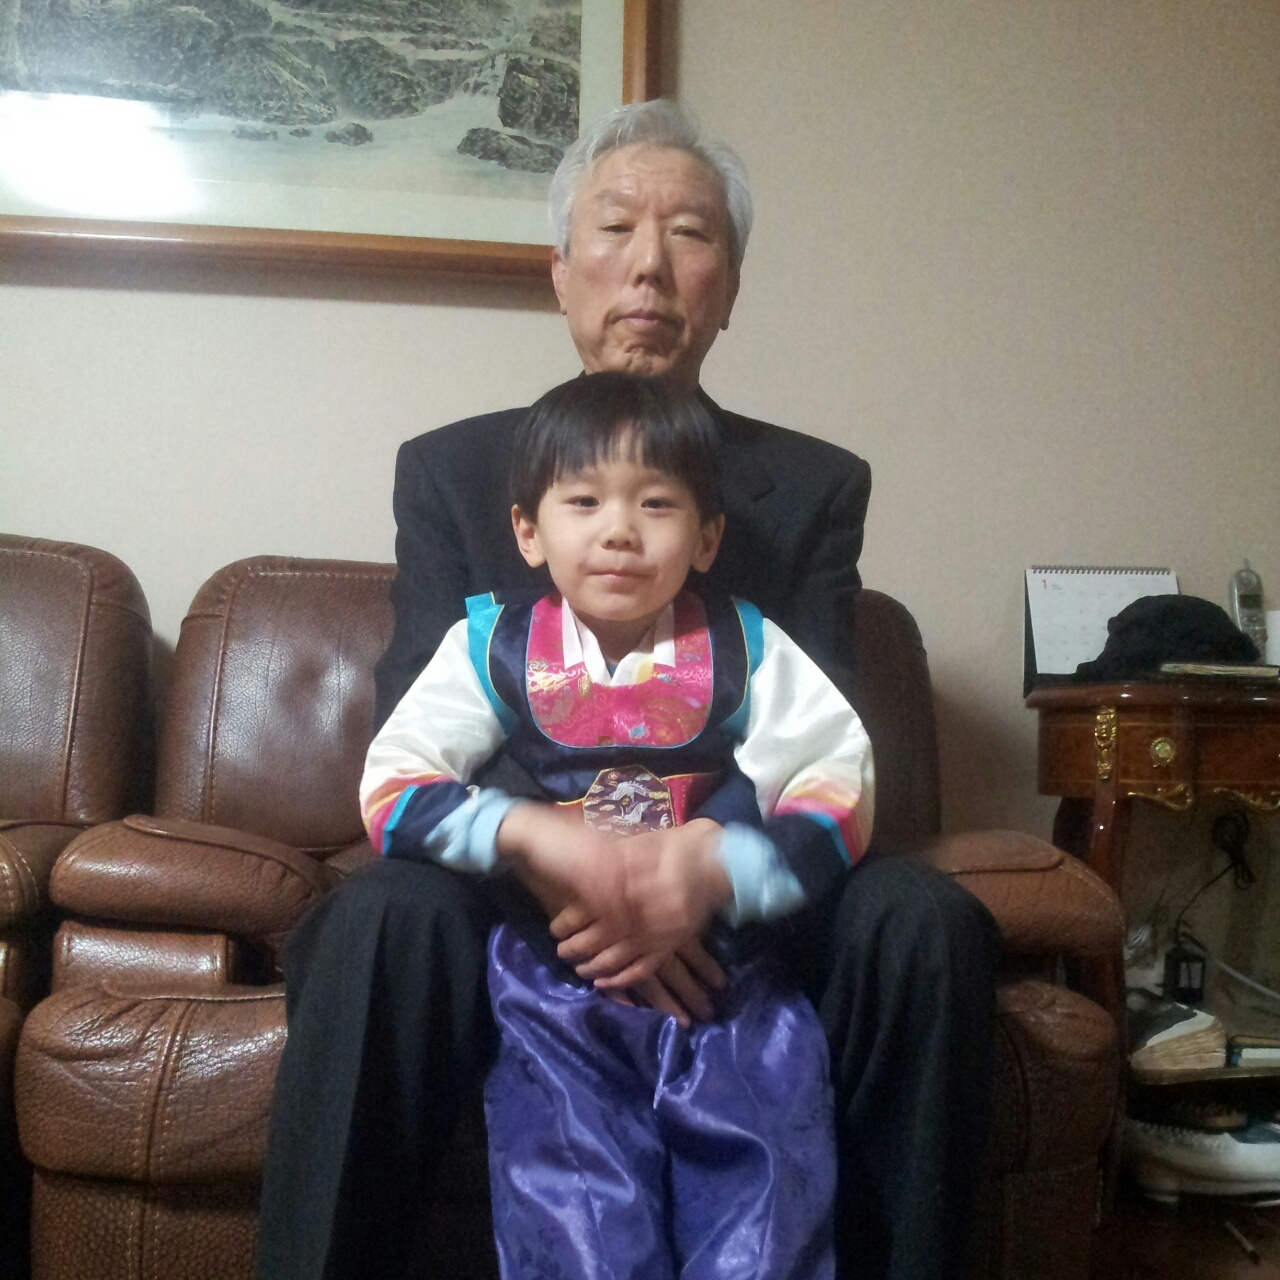
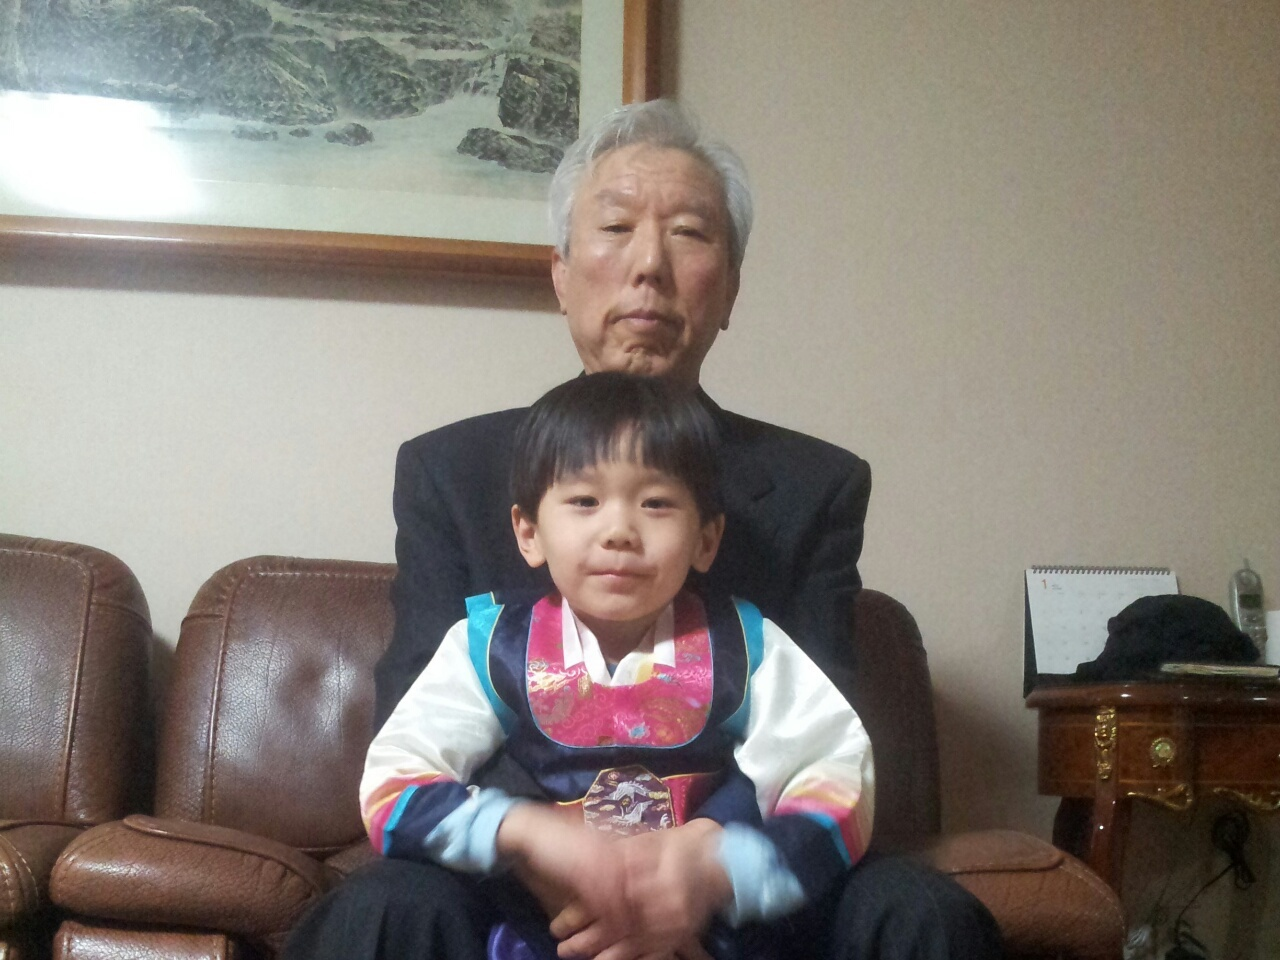
ㅁㄴㅇㄹ

diff --git a/index.html b/index.html
@@ -59,6 +59,8 @@
   <script>
     const images = [
       "/Photos/16348C11-4694-4CD5-B2AC-22FD359C9B06.JPG",
+      "/Photos/6A6D728A-DC43-4044-B44F-EBCA209EAC0D.JPG",
+      "/Photos/789DA0FD-C532-4D42-B22E-0A9D89155CF9.JPG",
       "/Photos/829C71A9-F415-47BB-A0B3-8B8BA6F026D9.JPG",
       "/Photos/92BBBA0A-3942-4280-AD89-7AEBD53ADFE6.jpg",
       "/Photos/A889146D-FA9A-4C41-B1B7-C21E8B9A6B5D.jpg",
